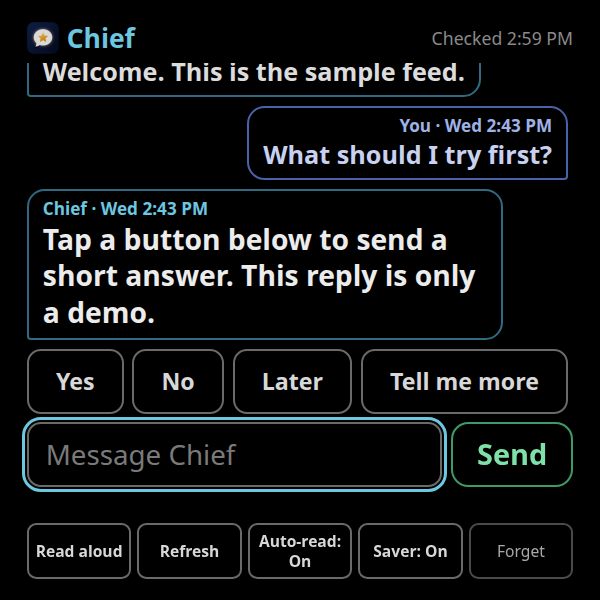
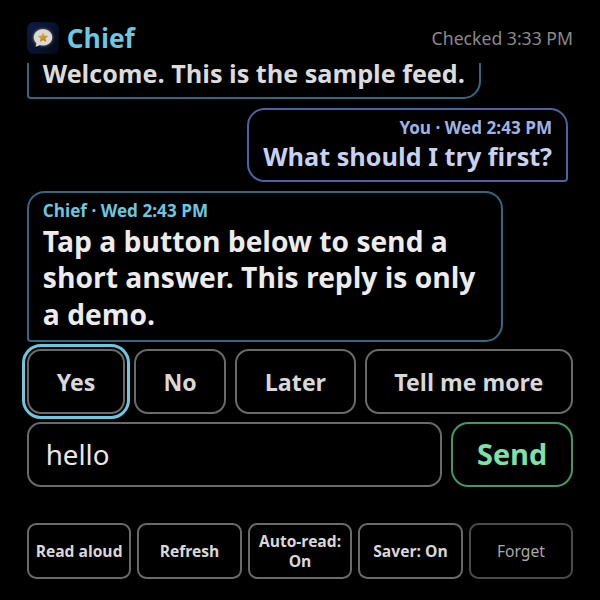
Stop a wrong passphrase from deleting a real feed.
Only the shipped sample can be replaced, and only after START OVER, with a backup saved first. Left and Right inside the passphrase and message fields move the text cursor.

diff --git a/app.js b/app.js
@@ -357,7 +357,8 @@
     if (atBottom || added) scrollEnd();
   }
   // Reply buttons are real buttons in the page, between the transcript and the
-  // message box. They are never moved into #scroll. ?replies=0 hides them.
+  // message box. They stay the same elements for the life of the page (hidden,
+  // never removed) so native focus order does not lose them. ?replies=0 hides them.
   function placeQuick(list) {
     const row = $('quick-replies');
     if (!row) return;
@@ -705,9 +706,32 @@
   $('forget-btn').addEventListener('click', askForget);
   $('confirm-cancel').addEventListener('click', () => cancelForget(false));
   $('confirm-forget').addEventListener('click', commitForget);
-  // Arrow keys are left to the glasses. Chromium spatial navigation (and Tab)
-  // move focus. A custom arrow walk would swallow those keys.
-  // Enter on a transcript bubble is not a native button activation.
+  // Meta Ray-Ban Display delivers touchpad and Neural Band input as keydown:
+  // ArrowUp, ArrowDown, ArrowLeft, ArrowRight, and Enter. Chromium moves focus
+  // by on-screen position. Enter activates the focused control, which fires click
+  // on a real button. This page does not take over those arrow keys.
+  // Left and Right inside the passphrase or message field move the text cursor.
+  // At either end of the text, spatial navigation would otherwise leave the field.
+  function nudgeCaret(el, dir, shift) {
+    const len = el.value.length;
+    let a = el.selectionStart;
+    let b = el.selectionEnd;
+    if (a == null || b == null) return;
+    const clamp = (n) => Math.max(0, Math.min(len, n));
+    if (!shift) {
+      const pos = a !== b ? (dir < 0 ? Math.min(a, b) : Math.max(a, b)) : clamp(a + dir);
+      el.setSelectionRange(pos, pos, 'none');
+      return;
+    }
+    const backward = el.selectionDirection === 'backward';
+    const edge = backward ? a : b;
+    const next = clamp(edge + dir);
+    if (backward) {
+      if (next > b) el.setSelectionRange(b, next, 'forward');
+      else el.setSelectionRange(next, b, 'backward');
+    } else if (next < a) el.setSelectionRange(next, a, 'backward');
+    else el.setSelectionRange(a, next, 'forward');
+  }
   document.addEventListener('keydown', (ev) => {
     if (ev.key === 'Escape') {
       if (!confirmOpen) return;
@@ -715,6 +739,16 @@
       cancelForget(false);
       return;
     }
+    if ((ev.key === 'ArrowLeft' || ev.key === 'ArrowRight') && !ev.altKey && !ev.ctrlKey && !ev.metaKey) {
+      const field = document.activeElement;
+      if (field && (field.id === 'pass' || field.id === 'msg') && typeof field.selectionStart === 'number') {
+        ev.preventDefault();
+        nudgeCaret(field, ev.key === 'ArrowLeft' ? -1 : 1, ev.shiftKey);
+      }
+      return;
+    }
+    // A transcript row is not a native button. Enter activates it once.
+    // Real buttons, including the quick replies, keep the browser's own Enter.
     if (ev.key !== 'Enter' || ev.altKey || ev.ctrlKey || ev.metaKey || ev.shiftKey) return;
     const el = document.activeElement;
     if (!el || !el.classList || !el.classList.contains('msg')) return;

diff --git a/index.html b/index.html
@@ -15,7 +15,7 @@
   <link rel="manifest" href="manifest.webmanifest">
   <link rel="stylesheet" href="style.css?v=4">
   <script defer src="config.js?v=3"></script>
-  <script defer src="app.js?v=5"></script>
+  <script defer src="app.js?v=6"></script>
 </head>
 <body>
   <div id="app" class="app-shell">

diff --git a/publish.py b/publish.py
@@ -1,8 +1,8 @@
 #!/usr/bin/env python3
 """Encrypt one message and append it to feed.json.
 
-The passphrase comes from the environment variable CHIEF_PASSPHRASE.
-This program never prints that value.
+The passphrase is the secret phrase you type. This program never prints it.
+Set CHIEF_PASSPHRASE yourself only when you run the command by hand.
 
 Setup (once), from this folder:
 
@@ -19,6 +19,7 @@ from __future__ import annotations
 
 import argparse
 import base64
+import getpass
 import hashlib
 import json
 import os
@@ -32,6 +33,19 @@ ITERATIONS = 310_000
 SALT_LEN = 16
 IV_LEN = 12
 ENV_NAME = "CHIEF_PASSPHRASE"
+# Exit 2 is only "this passphrase does not open the feed". Every other failure is 1.
+WRONG_PASSPHRASE = 2
+# The shipped sample. A real feed must not match all of these at once.
+DEMO_MARKER = "chief-sample"
+DEMO_IDS = ["gcgdoxx9u37y", "XgGi2P8I0Yxk", "u6miGUbq6GDF"]
+DEMO_SALT = "HnK3mYxW621XsCRWaInK/Q=="
+DEMO_CTS = frozenset(
+    {
[3 lines of base64/hex data omitted]
+    }
+)
 
 
 def b64encode(raw: bytes) -> str:
@@ -46,11 +60,43 @@ def passphrase_from_env() -> str:
     value = os.environ.get(ENV_NAME)
     if value is None or value == "":
         print(
-            f"{ENV_NAME} is not set. Set it in the environment and run this again.",
+            "No passphrase was provided. The send-message script asks for it. "
+            "If you are typing the command yourself, set CHIEF_PASSPHRASE to your passphrase first.",
             file=sys.stderr,
         )
         sys.exit(1)
     return value
+
+
+def is_shipped_demo(data: dict | None) -> bool:
+    """True only for the untouched sample file that shipped with Chief."""
+    if not isinstance(data, dict):
+        return False
+    if data.get("demo") != DEMO_MARKER or data.get("demoIds") != DEMO_IDS:
+        return False
+    if data.get("salt") != DEMO_SALT:
+        return False
+    items = data.get("items")
+    if not isinstance(items, list) or len(items) != len(DEMO_CTS):
+        return False
+    cts = []
+    for item in items:
+        if not isinstance(item, dict) or not isinstance(item.get("ct"), str):
+            return False
+        cts.append(item["ct"])
+    return set(cts) == DEMO_CTS
+
+
+def backup_feed(path: Path) -> Path:
+    """Copy path to feed.backup-<timestamp>.json before a reset."""
+    stamp = datetime.now().strftime("%Y%m%d-%H%M%S")
+    dest = path.with_name(f"{path.stem}.backup-{stamp}{path.suffix}")
+    extra = 2
+    while dest.exists():
+        dest = path.with_name(f"{path.stem}.backup-{stamp}-{extra}{path.suffix}")
+        extra += 1
+    dest.write_bytes(path.read_bytes())
+    return dest
 
 
 def new_id() -> str:
@@ -124,25 +170,9 @@ def read_message(args: argparse.Namespace) -> str:
     return text
 
 
-def main() -> None:
-    parser = argparse.ArgumentParser(
-        description="Encrypt a message and append it to feed.json."
-    )
-    parser.add_argument("message", nargs="?", help="Message text. If omitted, read from stdin.")
-    parser.add_argument("--feed", default="feed.json", help="Feed file to update (default: feed.json).")
-    parser.add_argument("--role", choices=("chief", "owner"), default="chief", help="Who the message is from.")
-    parser.add_argument("--new", action="store_true", help="Start a fresh feed and remove old messages.")
-    parser.add_argument("--keep", type=int, default=20, help="How many messages to keep (default: 20).")
-    args = parser.parse_args()
-
-    if args.keep < 1:
-        print("--keep must be at least 1.", file=sys.stderr)
-        sys.exit(1)
-
-    text = read_message(args)
+def publish(text: str, path: Path, new: bool, role: str, keep: int) -> int:
     passphrase = passphrase_from_env()
-    path = Path(args.feed)
-    existing = None if args.new else load_feed(path)
+    existing = None if new else load_feed(path)
 
     if existing is None:
         salt = os.urandom(SALT_LEN)
@@ -154,33 +184,97 @@ def main() -> None:
             iterations = int(existing.get("iter") or ITERATIONS)
         except (KeyError, ValueError, TypeError):
             print(f"{path} is missing its salt.", file=sys.stderr)
-            sys.exit(1)
+            return 1
         if len(salt) != SALT_LEN or iterations < 1:
             print(f"{path} has a salt or iteration count this app cannot use.", file=sys.stderr)
-            sys.exit(1)
+            return 1
         items = list(existing["items"])
         if items:
             key = derive_key(passphrase, salt, iterations)
             try:
                 decrypt_item(key, items[-1])
             except Exception:
-                print(
-                    "That passphrase does not open the existing feed. "
-                    "Check the environment variable, or run again with --new "
-                    "to start a fresh feed (this removes the current messages).",
-                    file=sys.stderr,
-                )
-                sys.exit(1)
+                print("That passphrase does not open your feed.", file=sys.stderr)
+                return WRONG_PASSPHRASE
+
+    if new and path.exists():
+        saved = backup_feed(path)
+        print(f"Saved a backup as {saved.name}.")
 
     key = derive_key(passphrase, salt, iterations)
-    items.append(encrypt_item(key, text, args.role))
-    items = items[-args.keep :]
+    items.append(encrypt_item(key, text, role))
+    items = items[-keep:]
     write_feed(path, build_feed(salt, iterations, items))
 
-    if args.new or existing is None:
+    if new or existing is None:
         print(f"Started {path} and saved 1 message. Older messages in that file were removed.")
     else:
         print(f"Saved 1 message to {path} ({len(items)} messages now).")
+    return 0
+
+
+def read_line(prompt: str) -> str:
+    print(prompt, end="", file=sys.stderr, flush=True)
+    return sys.stdin.readline()
+
+
+def read_secret(prompt: str) -> str:
+    if sys.stdin.isatty():
+        return getpass.getpass(prompt)
+    return read_line(prompt)
+
+
+def interactive(path: Path, role: str, keep: int) -> int:
+    secret = read_secret("Passphrase (it will not be shown): ")
+    if secret.strip() == "":
+        print("Type a passphrase. It was empty.", file=sys.stderr)
+        return 1
+    message = read_line("Message: ")
+    if message.strip() == "":
+        print("Type a message. It was empty.", file=sys.stderr)
+        return 1
+    os.environ[ENV_NAME] = secret
+    code = publish(message.strip(), path, False, role, keep)
+    if code != WRONG_PASSPHRASE:
+        return code
+    # A wrong passphrase on a real feed must not offer to delete it.
+    # Only the untouched shipped sample can be replaced, and only after START OVER.
+    if not is_shipped_demo(load_feed(path)):
+        print("Your messages were not changed.", file=sys.stderr)
+        return WRONG_PASSPHRASE
+    print("This file is still the sample that came with Chief.", file=sys.stderr)
+    answer = read_line("Type START OVER to replace the sample. A backup is saved first: ")
+    if answer.strip() != "START OVER":
+        print("Your messages were not changed.", file=sys.stderr)
+        return WRONG_PASSPHRASE
+    return publish(message.strip(), path, True, role, keep)
+
+
+def main() -> None:
+    parser = argparse.ArgumentParser(
+        description="Encrypt a message and append it to feed.json."
+    )
+    parser.add_argument("message", nargs="?", help="Message text. If omitted, read from stdin.")
+    parser.add_argument("--feed", default="feed.json", help="Feed file to update (default: feed.json).")
+    parser.add_argument("--role", choices=("chief", "owner"), default="chief", help="Who the message is from.")
+    parser.add_argument("--new", action="store_true", help="Start a fresh feed and remove old messages.")
+    parser.add_argument("--keep", type=int, default=20, help="How many messages to keep (default: 20).")
+    parser.add_argument("--demo-feed", action="store_true", help="Exit 0 when the feed is still the shipped sample.")
+    parser.add_argument("--interactive", action="store_true", help="Ask for a passphrase and a message.")
+    args = parser.parse_args()
+
+    if args.keep < 1:
+        print("--keep must be at least 1.", file=sys.stderr)
+        sys.exit(1)
+
+    path = Path(args.feed)
+    if args.demo_feed:
+        sys.exit(0 if is_shipped_demo(load_feed(path)) else 1)
+    if args.interactive:
+        sys.exit(interactive(path, args.role, args.keep))
+
+    text = read_message(args)
+    sys.exit(publish(text, path, args.new, args.role, args.keep))
 
 
 if __name__ == "__main__":

diff --git a/README.md b/README.md
@@ -21,9 +21,9 @@ Nothing to install. The letters stay hidden. Click **Show** if you want to check
 ## Checklist
 
 - [ ] 1. Open the live demo above and type the demo passphrase. No install.
-- [ ] 2. Click **Use this template** (GitHub's button that copies this project into your account).
+- [ ] 2. Click **Use this template** or **Fork** (GitHub's button that copies this project into your account). Choose **Public**.
 - [ ] 3. Edit `config.js` with the pencil icon. You can skip the `YOUR_` lines until you want Send to work.
-- [ ] 4. Turn on GitHub Pages (the free switch that publishes your copy as a website): **Settings**, **Pages**, branch **main**, folder **/ (root)**.
+- [ ] 4. Turn on GitHub Pages (the free switch that publishes your copy as a website): **Settings**, **Pages**, **Deploy from a branch**, branch **main**, folder **/ (root)**.
 - [ ] 5. Open your new site address and type the demo passphrase. A red "not set up" line, if you tap Send, is expected.
 
 ## Make your own copy in the browser
@@ -33,7 +33,7 @@ You do not need a command line for this part.
 The **Use this template** button is turned on at go-live (**Settings**, **General**, **Template repository**). You do not change that checkbox. If you do not see the button yet, click **Fork** instead. Either one makes your own copy.
 
 1. Sign in to GitHub and open this project.
-2. Click **Use this template**, then **Create a new repository**. Pick a name you will remember.
+2. Click **Use this template** or **Fork**, then **Create a new repository**. Choose **Public**. Pick a name you will remember.
 3. In your new copy, click `config.js`, then the pencil (**Edit this file**). Change only the words inside the quotes. Click **Commit changes** and commit to the `main` branch.
 
 | Line | Name | What to put |
@@ -58,8 +58,8 @@ Open it and type the demo passphrase. You should see the sample reply and the bu
 
 Do this when you want your own reply on the site. The passphrase stays on your computer. It is never saved in the project.
 
-1. On your GitHub copy, click the green **Code** button, then **Download ZIP**. Unzip it. That folder is your project folder.
-2. Double-click `send-message.bat` (Windows) or `send-message.sh` (Mac or Linux). The first time, it builds a private toolbox folder named `.venv`. Type your passphrase (six or more random words, not the demo phrase). The letters stay hidden. Then type the message. The first time, type `yes` when it asks to start a new feed (the message file). That removes the sample.
+1. On your GitHub copy, click the green **Code** button, then **Download ZIP**. Unzip it. That folder is your project folder. This step needs Python from [python.org](https://www.python.org/downloads/).
+2. Double-click `send-message.bat` (Windows) or `send-message.sh` (Mac or Linux). The first time, it builds a private toolbox folder named `.venv`. Type your passphrase (six or more random words, not the demo phrase). The letters stay hidden. Then type the message. The first time, while the file is still the sample, type `START OVER` when it asks. That saves a backup, then replaces the sample.
 3. Back on GitHub, click **Add file**, then **Upload files**. Drop in the new `feed.json` only. Do not upload `.venv`. Commit it to `main`. Wait a minute, reload your site, and unlock with your passphrase. The demo passphrase stops working. That is expected.
 
 If the Mac or Linux file opens as text, open Terminal, type `cd ` with a space, drag the folder onto the window, press Enter, then run `./send-message.sh`.

diff --git a/SETUP.md b/SETUP.md
@@ -15,9 +15,9 @@ Chief is not affiliated with Meta.
 ## Checklist
 
 - [ ] 1. Open the live demo and type the demo passphrase.
-- [ ] 2. Click **Use this template** (or **Fork** if that button is not there yet).
+- [ ] 2. Click **Use this template** (or **Fork** if that button is not there yet). Choose **Public**.
 - [ ] 3. Edit `config.js` with the pencil. Skip the `YOUR_` lines until you want Send.
-- [ ] 4. Turn on Pages: **Settings**, **Pages**, branch **main**, folder **/ (root)**.
+- [ ] 4. Turn on Pages: **Settings**, **Pages**, **Deploy from a branch**, branch **main**, folder **/ (root)**.
 - [ ] 5. Open your site and type the demo passphrase. A red "not set up" line on Send is expected.
 
 The template button is enabled at go-live under **Settings**, **General**, **Template repository**. You do not need to flip that yourself.
@@ -42,7 +42,7 @@ Send needs one of line 9, line 14, or line 19. Lines 9 and 14 are email. Line 19
 ## Send a message without git
 
 1. On your copy, click **Code**, then **Download ZIP**, and unzip it.
-2. Double-click `send-message.bat` (Windows) or `send-message.sh` (Mac or Linux). Type the passphrase (hidden), then the message. The first time, type `yes` to replace the sample.
+2. Double-click `send-message.bat` (Windows) or `send-message.sh` (Mac or Linux). This needs Python from [python.org](https://www.python.org/downloads/). Type the passphrase (hidden), then the message. The first time, while the file is still the sample, type `START OVER`. A backup is saved, then the sample is replaced.
 3. On GitHub, **Add file**, **Upload files**, and commit the new `feed.json` only. Do not upload `.venv`.
 
 If `send-message.sh` opens as text: in Terminal, `cd` into the unzipped folder (you are then in the project folder) and run `./send-message.sh`.
@@ -119,7 +119,7 @@ git commit -m "Update the message feed"
 git push
 ```
 
-`--new` removes the sample. Later replies use the same publish command **without** `--new`, then commit and push `feed.json` again. The script reads the passphrase from the environment and does not print it. Do not commit the passphrase.
+`--new` removes the sample after saving `feed.backup-<timestamp>.json`. Later replies use the same publish command **without** `--new`, then commit and push `feed.json` again. The script asks for the passphrase and does not print it. Do not commit the passphrase.
 
 The file keeps the newest 20 messages.
 
@@ -165,7 +165,7 @@ Use your `https://` Pages address and the passphrase you publish with.
 
 **Can I use this without the glasses?** Yes. Any modern browser can open the page.
 
-**What if I lose the passphrase?** Old messages cannot be read. Run the helper again and type `yes` to start a new feed, or run `publish.py --new`. Older scrambled copies can still exist in GitHub history.
+**What if I lose the passphrase?** Old messages cannot be read. Run `publish.py --new` with a new passphrase. That saves `feed.backup-<timestamp>.json` first, then starts a new file. Older scrambled copies can still exist in GitHub history.
 
 **Why does Forget ask twice?** So one stray tap does not sign you out. Cancel is the safe choice. Forget clears the passphrase from the browser's local storage on that device.
 
